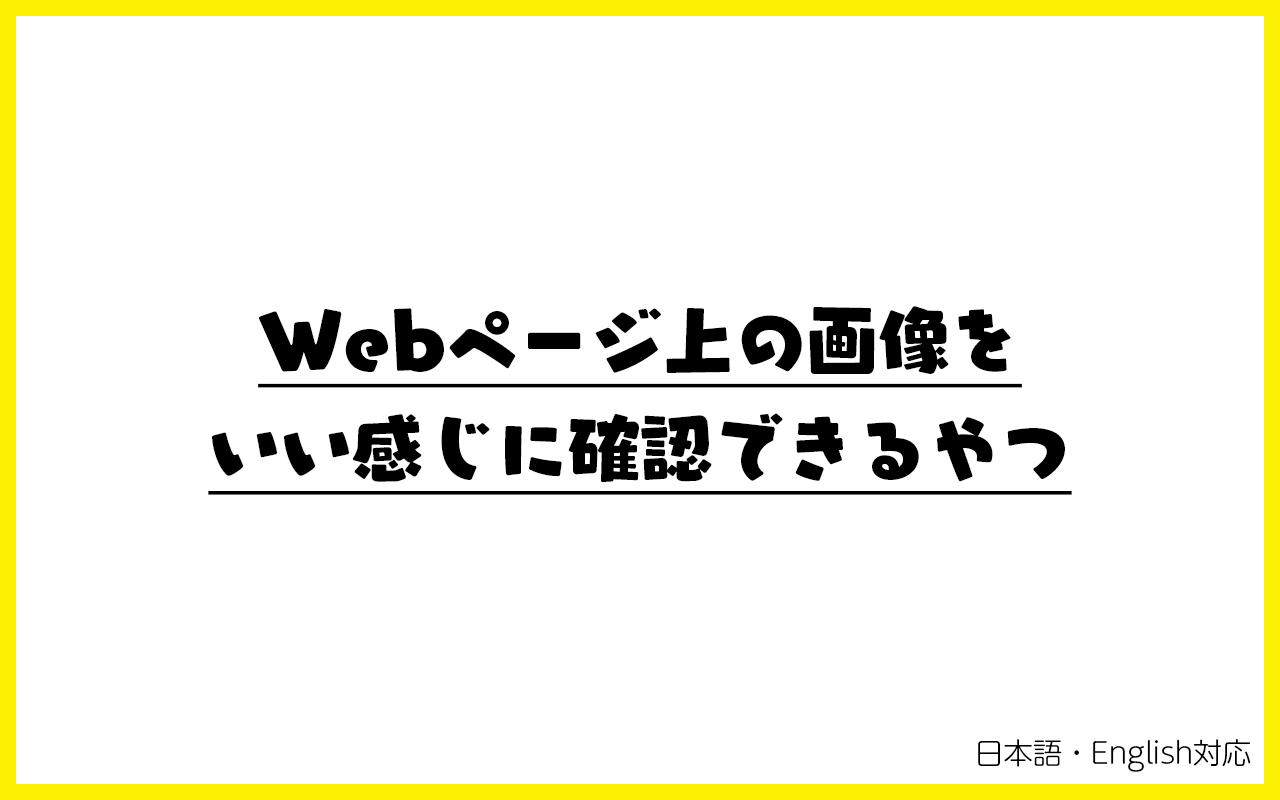
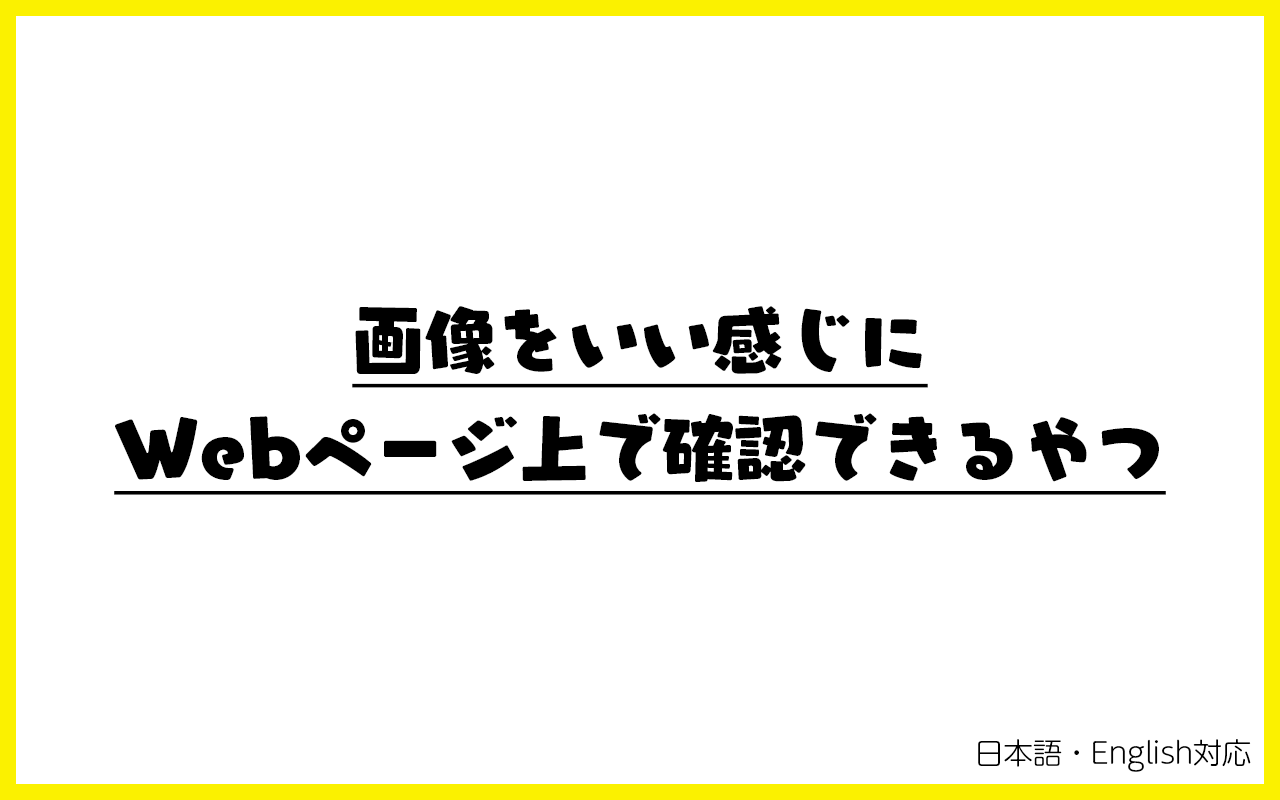
1.2.2

Changed region(s): [[0.0938, 0.375, 0.9062, 0.625]]

diff --git a/src/content_scripts.ts b/src/content_scripts.ts
@@ -1,6 +1,7 @@
 let currentImageElement: HTMLImageElement | null = null;
 let hasBorder = false;
 const IMAGE_LIST_COLS = 8;
+const IMAGE_LIST_GAP = 4;
 const SPINNER = `
 <div id="spinner">
 <svg xmlns="http://www.w3.org/2000/svg" viewBox="0 0 100 100" preserveAspectRatio="xMidYMid" width="224" height="224" style="shape-rendering: auto; display: block; background: transparent;" xmlns:xlink="http://www.w3.org/1999/xlink"><g><g transform="rotate(0 50 50)">
@@ -1268,6 +1269,8 @@ const { imageViewer, dialog, showDialog, dialogContains, getImageData, setImageD
         position: 'fixed !important',
         left: '0 !important',
         top: '0 !important',
+        '--outline': '2px solid #42ccc0',
+        '--outline-offset': '2px',
       },
       '*': {
         'box-sizing': 'border-box',
@@ -1278,7 +1281,8 @@ const { imageViewer, dialog, showDialog, dialogContains, getImageData, setImageD
         outline: 'none',
       },
       ':focus-visible': {
-        'box-shadow': '0 0 0 2px #fff',
+        outline: 'var(--outline)',
+        'outline-offset': 'var(--outline-offset)',
       },
       img: {
         position: 'absolute',
@@ -1388,9 +1392,18 @@ const { imageViewer, dialog, showDialog, dialogContains, getImageData, setImageD
         'font-size': 'inherit',
         'line-height': 'inherit',
         border: '0',
-        outline: 'none',
         background: 'transparent',
         'border-radius': '4px',
+      },
+      '#details input[readonly], #details select[readonly]': {
+        outline: 'none',
+        'border-radius': '0',
+        'padding-bottom': '4px',
+        'border-bottom': '1px solid transparent',
+        'margin-bottom': '3px',
+      },
+      '#details input[readonly]:focus-visible, #details select[readonly]:focus-visible': {
+        'border-bottom-color': '#cbd7db',
       },
       '#readonly .row, #editable .row, #editable .group': {
         display: 'grid',
@@ -1541,7 +1554,9 @@ const { imageViewer, dialog, showDialog, dialogContains, getImageData, setImageD
         'background-color': '#cbd7db',
       },
       '.checkbox:has(input:focus-visible)::after': {
-        'box-shadow': '0 0 3px rgb(0 0 0 / 60%) inset, 0 0 0 2px #fff',
+        // 'box-shadow': '0 0 3px rgb(0 0 0 / 60%) inset, 0 0 0 2px #fff',
+        outline: 'var(--outline)',
+        'outline-offset': 'var(--outline-offset)',
       },
       '.right': {
         'text-align': 'right',
@@ -1638,7 +1653,7 @@ const { imageViewer, dialog, showDialog, dialogContains, getImageData, setImageD
         all: 'unset',
         'max-width': `${100 / IMAGE_LIST_COLS}%`,
         'min-width': `${100 / IMAGE_LIST_COLS}%`,
-        padding: '2px',
+        padding: `${IMAGE_LIST_GAP / 2}px`,
         'box-sizing': 'border-box',
         'aspect-ratio': '1/1',
       },
@@ -1651,8 +1666,12 @@ const { imageViewer, dialog, showDialog, dialogContains, getImageData, setImageD
         'aspect-ratio': '1/1',
         'border-radius': '4px',
         'box-sizing': 'border-box',
-        outline: 'revert',
+        outline: 'inherit',
         background: '#666769',
+      },
+      '.image-list-item-button:focus-visible': {
+        outline: 'var(--outline)',
+        'outline-offset': 'var(--outline-offset)',
       },
       '.image-list-item img, .image-list-item svg': {
         position: 'static',
@@ -1854,13 +1873,27 @@ const { imageViewer, dialog, showDialog, dialogContains, getImageData, setImageD
       const onkeydown = (e: KeyboardEvent) => {
         const self = e.currentTarget;
 
+        if (e.altKey || e.ctrlKey) {
+          return;
+        }
+
         if (self instanceof HTMLButtonElement) {
           const buttons = [
             ...(self.closest('ul')?.querySelectorAll<HTMLButtonElement>('button') ?? []),
           ];
           const index = buttons.indexOf(self);
 
+          if (e.key.startsWith('Arrow')) {
+            e.preventDefault();
+          }
+
           switch (e.key) {
+            case 'Home':
+              buttons[0].click();
+              break;
+            case 'End':
+              buttons[buttons.length - 1].click();
+              break;
             case 'ArrowRight':
               (buttons[index + 1] || buttons[0]).click();
               break;
@@ -1963,6 +1996,32 @@ const { imageViewer, dialog, showDialog, dialogContains, getImageData, setImageD
 
       if (noRecreate) {
         viewCurrentIndex();
+
+        if (current) {
+          // scrollIntoView() だと常に上辺か下辺に張り付くため、自前で実装
+          const imageListRect = formControls.imageList.getBoundingClientRect();
+          const targetRect = current.getBoundingClientRect();
+          const isNotVisibleTop = targetRect.top < imageListRect.top - IMAGE_LIST_GAP;
+          const isNotVisibleBottom = imageListRect.bottom < targetRect.top + IMAGE_LIST_GAP;
+
+          if (isNotVisibleTop) {
+            setTimeout(() => {
+              formControls.imageList.scrollBy(
+                0,
+                targetRect.top - imageListRect.top - IMAGE_LIST_GAP,
+              );
+            }, 0);
+          } else if (isNotVisibleBottom) {
+            setTimeout(() => {
+              formControls.imageList.scrollBy(
+                0,
+                targetRect.bottom - imageListRect.bottom + IMAGE_LIST_GAP,
+              );
+            }, 0);
+          }
+        }
+
+        current?.focus();
       } else {
         imagesCache = images;
         formControls.imageList.classList.add('invisible');

diff --git a/README--ja.md b/README--ja.md
@@ -1,4 +1,4 @@
-# Web ページ上の画像をいい感じに確認できるやつ
+# 画像をいい感じに Web ページ上で確認できるやつ
 
 [![MIT License](http://img.shields.io/badge/license-MIT-blue.svg?style=flat)](LICENSE) [![Maintainability](https://api.codeclimate.com/v1/badges/2ecea4aab33e03fa6016/maintainability)](https://codeclimate.com/github/heppokofrontend/chrome-extension-image-viewer/maintainability)
 
